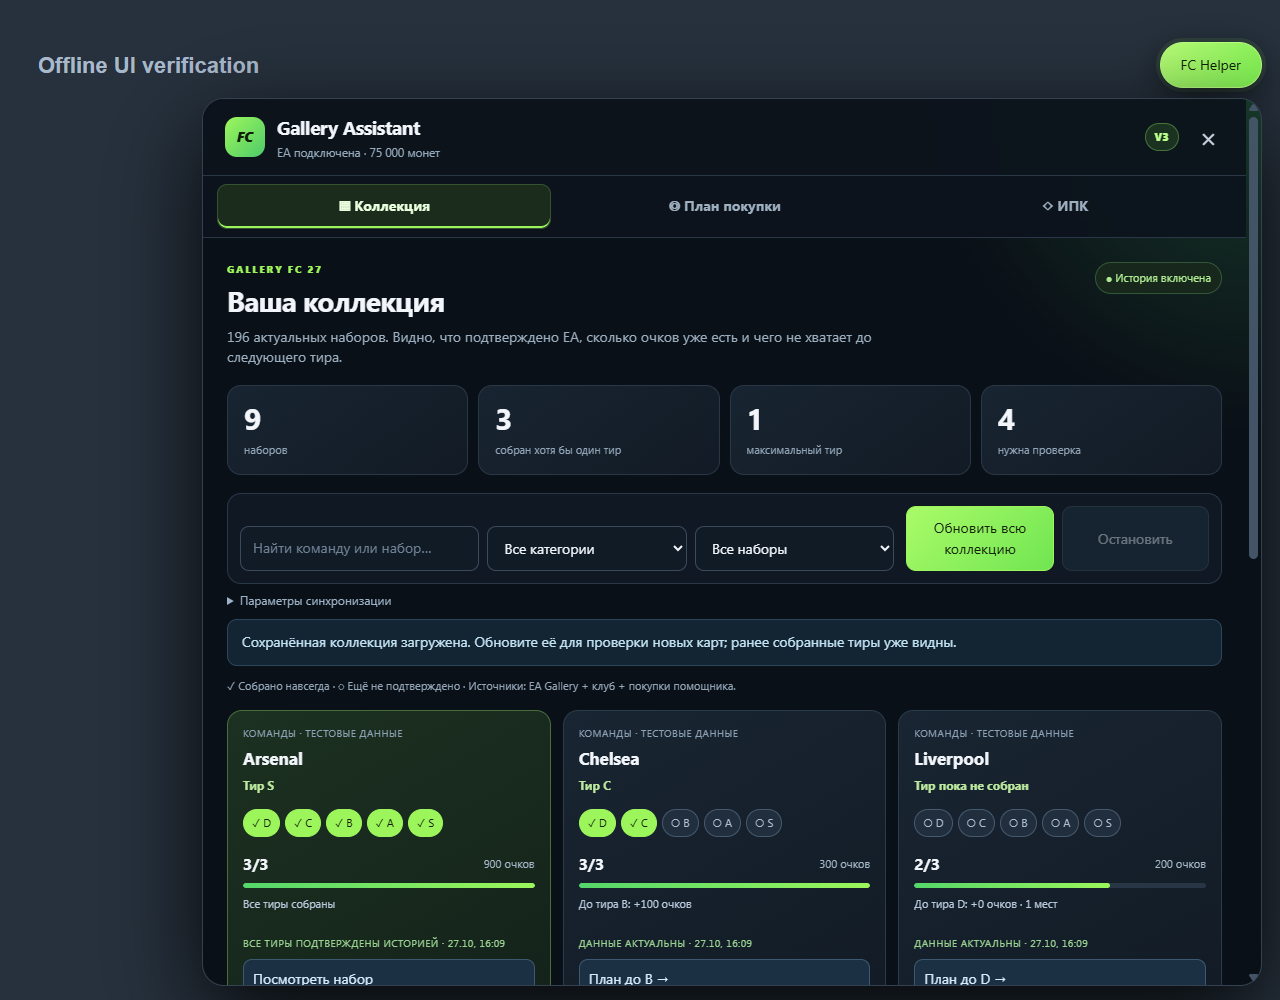
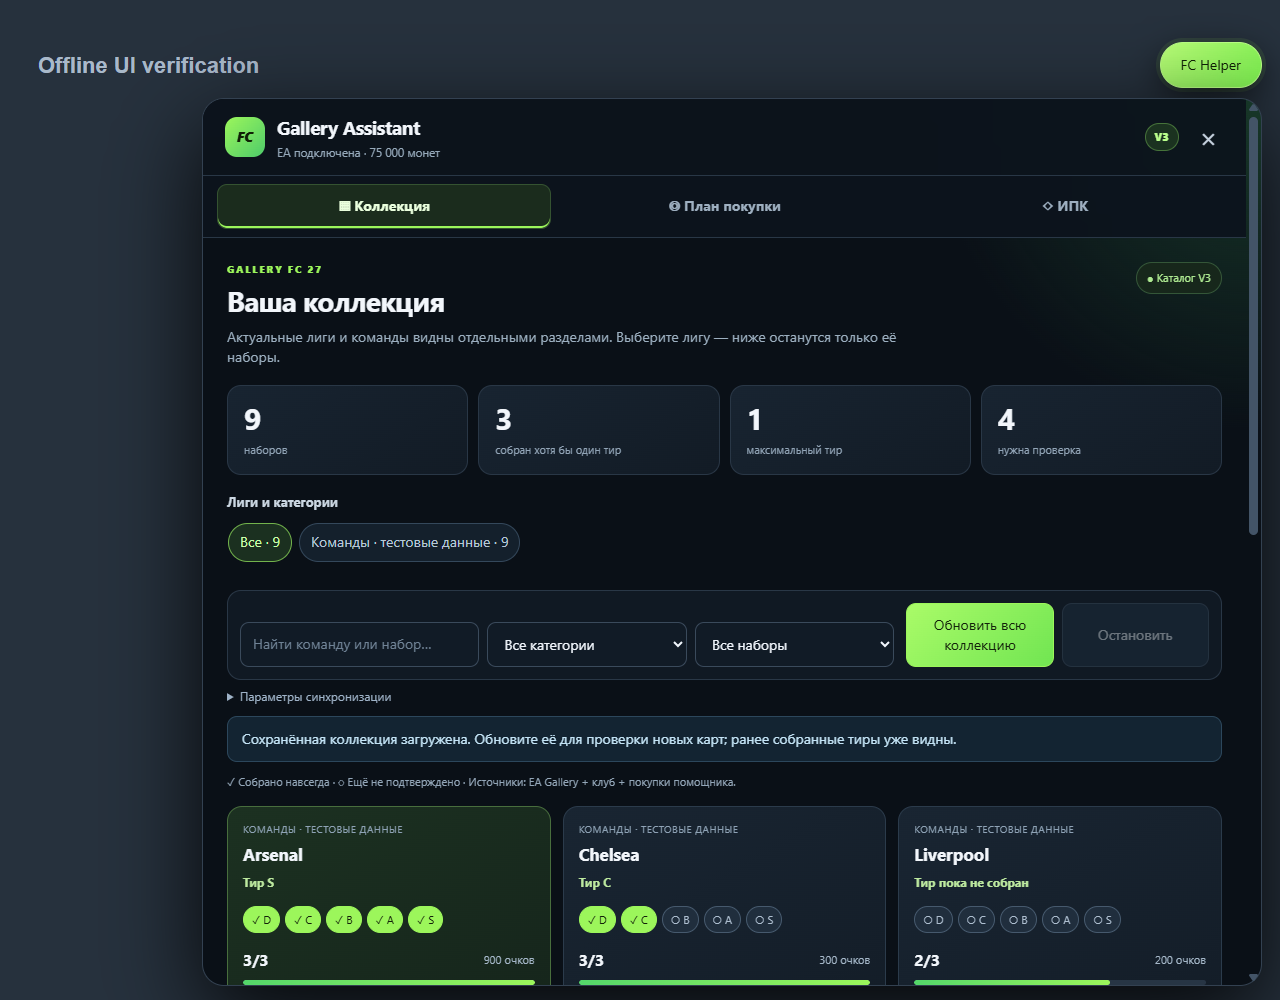
Fix V3 catalog migration and expose new leagues

diff --git a/ea-panel.css b/ea-panel.css
@@ -2,6 +2,7 @@
 #fcgh-toggle{border:1px solid #b9ff84;border-radius:999px;padding:12px 20px;background:linear-gradient(135deg,#baff78,#7aee4e);color:#102006;font-weight:900;box-shadow:0 10px 34px #0009,0 0 0 4px #9cf65b1a}#fcgh-panel{position:absolute;right:0;top:56px;width:min(1060px,calc(100vw - 32px));max-height:calc(100vh - 112px);overflow:auto;border:1px solid #334151;border-radius:22px;background:radial-gradient(circle at 100% 0,#173728 0,transparent 24%),var(--bg);box-shadow:0 30px 90px #000d;scrollbar-color:#435467 transparent}
 .fcgh-head{position:sticky;top:0;z-index:5;display:flex;align-items:center;gap:14px;padding:15px 22px;background:#0c131cef;backdrop-filter:blur(18px);border-bottom:1px solid var(--line)}.fcgh-brand{display:flex;align-items:center;gap:12px;flex:1}.fcgh-logo{display:grid;place-items:center;width:40px;height:40px;border-radius:12px;background:linear-gradient(135deg,var(--green),#4ecb6a);color:#102006;font-weight:950;font-style:italic}.fcgh-head h2{font-size:19px;letter-spacing:-.35px}.fcgh-head small{display:block;margin-top:2px;color:#96a9ba}.fcgh-version{padding:5px 9px;border:1px solid #46733a;border-radius:999px;background:#1b3220;color:#baff8c;font-size:11px;font-weight:900}.fcgh-close{border:0;background:transparent;color:#c7d2df;font-size:28px!important;padding:0 6px}.fcgh-tabs{display:flex;position:sticky;top:71px;z-index:4;background:#0c131cf2;backdrop-filter:blur(18px);padding:8px 14px;border-bottom:1px solid var(--line);gap:6px}.fcgh-tab{flex:1;border:1px solid transparent;border-radius:10px;padding:11px 8px;background:transparent;color:#9eafc0;font-weight:750!important}.fcgh-tab:hover{background:#17222e}.fcgh-tab.active{color:#eaffdd;border-color:#355331;background:#1b2c1d;box-shadow:inset 0 -2px var(--green)}
 .fcgh-body{padding:24px}.fcgh-page-title{display:flex;align-items:flex-start;justify-content:space-between;gap:20px;margin-bottom:18px}.fcgh-page-title h3{font-size:28px;letter-spacing:-.8px}.fcgh-page-title p{margin-top:5px!important;color:#9cafc0;max-width:720px}.fcgh-eyebrow{display:block;margin-bottom:5px;color:var(--green);font-size:10px;font-weight:900;letter-spacing:1.7px}.fcgh-live-badge{white-space:nowrap;padding:7px 10px;border:1px solid #345638;border-radius:999px;background:#17271b;color:#aeea91;font-size:11px}.fcgh-collection-stats{display:grid;grid-template-columns:repeat(4,1fr);gap:10px;margin:16px 0}.fcgh-collection-stats>div{display:flex;flex-direction:column;padding:16px;background:linear-gradient(145deg,#182431,#121b25);border:1px solid var(--line);border-radius:14px}.fcgh-collection-stats b{font-size:30px;line-height:1.1}.fcgh-collection-stats span{font-size:11px;color:#92a5b7;margin-top:7px}.fcgh-toolbar{display:flex;align-items:end;gap:12px;margin:18px 0 8px;padding:12px;border:1px solid var(--line);border-radius:14px;background:#101923}.fcgh-dashboard-filters{display:grid;grid-template-columns:1.2fr 1fr 1fr;gap:8px;flex:1}.fcgh-toolbar>.fcgh-actions{margin:0;min-width:280px}
+.fcgh-section-title{margin:18px 0 9px!important;font-size:13px;color:#cbd7e2}.fcgh-category-strip{display:flex;gap:7px;overflow-x:auto;padding:2px 1px 10px;scrollbar-width:thin}.fcgh-category-strip button{flex:0 0 auto;max-width:240px;border:1px solid #34485b;border-radius:999px;padding:8px 11px;background:#14202c;color:#b8c7d6;font-size:11px;font-weight:700;white-space:nowrap}.fcgh-category-strip button:hover,.fcgh-category-strip button.active{border-color:#72b34c;background:#1b3020;color:#caffab}
 .fcgh-dashboard-filters input,.fcgh-dashboard-filters select,.fcgh-body>label input,.fcgh-form input,.fcgh-form select{width:100%;min-width:0;border:1px solid #3a4a5b;border-radius:9px;background:#111b26;color:#f0f5fb;padding:11px 12px}.fcgh-dashboard-filters input::placeholder{color:#6f8295}.fcgh-form{display:grid;grid-template-columns:repeat(3,minmax(0,1fr));gap:13px}.fcgh-form label,.fcgh-body>label{display:flex;flex-direction:column;gap:6px;color:#a6b8c9;font-size:11px;font-weight:650}.fcgh-config-card{margin:10px 0;padding:16px;border:1px solid var(--line);border-radius:14px;background:linear-gradient(145deg,#141f2a,#101821)}.fcgh-config-card h4{margin-bottom:12px!important;font-size:14px}.fcgh-stepper{display:grid;grid-template-columns:repeat(4,1fr);gap:6px;margin:0 0 16px}.fcgh-stepper span{padding:9px 11px;border:1px solid #293847;border-radius:9px;background:#111b26;color:#9db0c2;font-size:11px;font-weight:750}.fcgh-stepper span:first-child{border-color:#4d743b;color:#c9ffab;background:#1a2b1b}
 .fcgh-actions{display:flex;flex-wrap:wrap;gap:8px;margin:14px 0}.fcgh-actions button{flex:1;border:1px solid #405367;border-radius:10px;padding:11px 12px;background:#203043;color:#edf4fc;font-weight:750}.fcgh-actions button:hover:not(:disabled){filter:brightness(1.12)}.fcgh-actions .fcgh-primary{background:linear-gradient(135deg,#aafb68,#71e552);color:#13220a;border-color:#9cf65b}.fcgh-actions .fcgh-danger{background:linear-gradient(135deg,#ffd46d,#efa93f);color:#2b1d03;border-color:#f6c252}.fcgh-main-actions button{padding:14px}.fcgh-buy-actions{position:sticky;bottom:0;z-index:3;padding:10px;margin:14px -10px -10px;background:#0a1017e8;backdrop-filter:blur(14px);border-top:1px solid var(--line)}#fcgh-root progress{display:block;width:100%;height:8px;border:0;border-radius:6px;accent-color:var(--green);margin:14px 0 10px}.fcgh-sync-status,#fcgh-status,#fcgh-sbc-status{padding:12px 14px;border:1px solid #2c475c;border-radius:10px;background:#132432;color:#c4e4f6;margin:10px 0}.fcgh-price-policy{padding:12px 14px;margin:14px 0;border:1px solid #695831;border-radius:10px;background:#282417;color:#edd89d;font-size:12px}.fcgh-risk{margin:16px 0 0!important;color:#8394a5;font-size:11px}.fcgh-legend{font-size:11px;color:#94a7b9;margin:12px 0 16px!important}
 .fcgh-set-grid{display:grid;grid-template-columns:repeat(3,minmax(0,1fr));gap:12px}.fcgh-set-card{display:flex;flex-direction:column;gap:8px;min-width:0;padding:15px;border:1px solid #2b3b4b;border-radius:15px;background:linear-gradient(150deg,#192532,#121b25);transition:.18s transform,.18s border-color}.fcgh-set-card:hover{transform:translateY(-2px);border-color:#486075}.fcgh-set-card.is-complete{border-color:#486e3d;background:linear-gradient(150deg,#1c3121,#14221a)}.fcgh-set-card>small{font-size:10px;color:#8fa3b6;text-transform:uppercase;letter-spacing:.45px}.fcgh-set-card h4{font-size:17px;line-height:1.25;overflow-wrap:anywhere}.fcgh-current-tier{font-size:12px;color:#bde99f;min-height:20px}.fcgh-tier-badges{display:flex;flex-wrap:wrap;gap:5px;margin:4px 0}.fcgh-tier{padding:5px 8px;border:1px solid #46596d;border-radius:999px;color:#aebfd0;background:#202e3d;font-size:11px!important;white-space:nowrap}.fcgh-tier.complete{background:var(--green);color:#132109;border-color:var(--green);font-weight:850}.fcgh-card-metrics{display:flex;justify-content:space-between;align-items:center;margin-top:3px}.fcgh-card-metrics b{font-size:16px}.fcgh-card-metrics span{font-size:11px;color:#a5b7c8}.fcgh-mini-progress{height:5px;border-radius:9px;overflow:hidden;background:#273544}.fcgh-mini-progress i{display:block;height:100%;background:linear-gradient(90deg,#54d66a,var(--green));border-radius:inherit}.fcgh-next-tier{color:#b9cadd;font-size:11px;min-height:32px}.fcgh-set-card .fcgh-sync-warn{color:#e7c27e}.fcgh-set-card .fcgh-sync-ok{color:#9bd491}.fcgh-open-set{margin-top:auto;width:100%;border:1px solid #3d5870;border-radius:9px;background:#1b3042;color:#d8ecff;padding:9px;text-align:left}.fcgh-open-set:hover{border-color:var(--blue)}

diff --git a/ea-panel.js b/ea-panel.js
@@ -1,6 +1,6 @@
 (() => {
   const CHANNEL = 'fcgh-v1', pending = new Map();
-  const BRIDGE_VERSION = '3.0.0';
+  const BRIDGE_VERSION = '3.0.1';
   let callId = 0, catalog = null, sets = [], currentPlan = null, sbcPlan = null, running = false, persona = 'default';
   const collected = new Set(), galleryVerified = new Set(), gallerySyncAt = new Map(), scores = {}, names = {}, collectedSources = {};
   let operation = false, stopRequested = false, ready = false, dashboardUI = null, canUndoSbc = false;
@@ -207,12 +207,12 @@
     const force = el('input', {type: 'checkbox'});
     const status = el('div', {class: 'fcgh-sync-status', role: 'status', 'aria-live': 'polite', text: 'Загружаем вашу историю…'});
     const progress = el('progress', {max: '100', value: '0', 'aria-label': 'Прогресс синхронизации'}); progress.hidden = true;
-    const stats = el('div', {class: 'fcgh-collection-stats'}), grid = el('div', {class: 'fcgh-set-grid'}), log = el('details', {class: 'fcgh-journal'});
+    const stats = el('div', {class: 'fcgh-collection-stats'}), categories = el('div', {class: 'fcgh-category-strip'}), grid = el('div', {class: 'fcgh-set-grid'}), log = el('details', {class: 'fcgh-journal'});
     log.append(el('summary', {text: 'История покупок и пропусков'}), el('div', {id: 'fcgh-purchase-log'}));
     const help = el('details', {class: 'fcgh-help'}, [el('summary', {text: 'Первый запуск? Как пользоваться'}), el('ol', {}, [el('li', {text: 'Нажмите «Обновить всю коллекцию». Это только проверка: монеты не тратятся. Её можно остановить и продолжить.'}), el('li', {text: 'Зелёные тиры уже собраны. Серые ещё не подтверждены. «Не проверено» не означает, что набор пуст.'}), el('li', {text: 'Нажмите «План до…» у команды. Укажите бюджет, проверьте список покупок и альтернативы.'}), el('li', {text: 'Начните покупку. Лот дороже ориентира более чем на 10% всегда потребует вашего разрешения.'})])]);
     const syncOptions = el('details', {class: 'fcgh-sync-options'}, [el('summary', {text: 'Параметры синхронизации'}), el('label', {class: 'fcgh-force-label'}, [force, ' Полная перепроверка, включая свежие данные']), el('div', {class: 'fcgh-actions'}, [syncCategory])]);
-    body.append(el('div', {class: 'fcgh-page-title'}, [el('div', {}, [el('span', {class: 'fcgh-eyebrow', text: 'GALLERY FC 27'}), el('h3', {text: 'Ваша коллекция'}), el('p', {text: '196 актуальных наборов. Видно, что подтверждено EA, сколько очков уже есть и чего не хватает до следующего тира.'})]), el('span', {class: 'fcgh-live-badge', text: '● История включена'})]), stats, el('div', {class: 'fcgh-toolbar'}, [el('div', {class: 'fcgh-dashboard-filters'}, [search, category, filter]), el('div', {class: 'fcgh-actions'}, [syncAll, stop])]), syncOptions, progress, status, el('p', {class: 'fcgh-legend', text: '✓ Собрано навсегда · ◌ Ещё не подтверждено · Источники: EA Gallery + клуб + покупки помощника.'}), grid, help, log);
-    dashboardUI = {search, category, filter, status, stats, grid, progress, openSet};
+    body.append(el('div', {class: 'fcgh-page-title'}, [el('div', {}, [el('span', {class: 'fcgh-eyebrow', text: 'GALLERY FC 27'}), el('h3', {text: 'Ваша коллекция'}), el('p', {text: 'Актуальные лиги и команды видны отдельными разделами. Выберите лигу — ниже останутся только её наборы.'})]), el('span', {class: 'fcgh-live-badge', text: '● Каталог V3'})]), stats, el('h4', {class: 'fcgh-section-title', text: 'Лиги и категории'}), categories, el('div', {class: 'fcgh-toolbar'}, [el('div', {class: 'fcgh-dashboard-filters'}, [search, category, filter]), el('div', {class: 'fcgh-actions'}, [syncAll, stop])]), syncOptions, progress, status, el('p', {class: 'fcgh-legend', text: '✓ Собрано навсегда · ◌ Ещё не подтверждено · Источники: EA Gallery + клуб + покупки помощника.'}), grid, help, log);
+    dashboardUI = {search, category, filter, status, stats, categories, grid, progress, openSet};
     filter.append(...['D', 'C', 'B', 'A', 'S'].map(letter => el('option', {value: 'tier:' + letter, text: 'Текущий тир ' + letter})));
     search.oninput = renderDashboard; category.onchange = renderDashboard; filter.onchange = renderDashboard;
     syncAll.onclick = () => runOperation(() => syncSets(sets, status, force.checked), 'sync');
@@ -223,6 +223,14 @@
     if (!dashboardUI || !catalog) return;
     const ui = dashboardUI;
     const overview = sets.map(row => ({row, state: GalleryCore.setOverview(row, [...collected], scores, checkedAt)}));
+    const categoryRows = [...new Map(sets.map(row => [row.categoryId, row.categoryName])).entries()].map(([id, name]) => ({id, name, count: sets.filter(row => row.categoryId === id).length}));
+    ui.categories.replaceChildren();
+    const allCategories = el('button', {class: !ui.category.value ? 'active' : '', text: `Все · ${sets.length}`});
+    allCategories.onclick = () => { ui.category.value = ''; renderDashboard(); }; ui.categories.append(allCategories);
+    for (const row of categoryRows) {
+      const button = el('button', {class: ui.category.value === row.id ? 'active' : '', text: `${row.name} · ${row.count}`});
+      button.onclick = () => { ui.category.value = row.id; renderDashboard(); }; ui.categories.append(button);
+    }
     ui.stats.replaceChildren(...[
       [sets.length, 'наборов'], [overview.filter(x => x.state.current).length, 'собран хотя бы один тир'],
       [overview.filter(x => !x.state.next).length, 'максимальный тир'], [overview.filter(x => x.state.stale).length, 'нужна проверка']

diff --git a/background.js b/background.js
@@ -1,6 +1,7 @@
 const GAME = 27;
 const FUTGG_MANIFEST = `https://r2.fut.gg/${GAME}/manifest.json`;
 const OWN_DATA_ROOT = 'https://raw.githubusercontent.com/sergunchik218/FC-Gallery_SBC-Assistant/main';
+const BUILTIN_CATALOG_VERSION = 23;
 const DATA_TTL = 7 * 24 * 60 * 60_000;
 const WEEK_MINUTES = 7 * 24 * 60;
 const FUTBIN_LOAD_TIMEOUT = 60_000;
@@ -42,7 +43,7 @@ async function dataBundle(force = false) {
   if (dataBundleMemo && !force) return dataBundleMemo;
   const stored = await chrome.storage.local.get('fcghDataBundle27');
   const cached = stored.fcghDataBundle27;
-  if (!force && cached?.at && Date.now() - cached.at < DATA_TTL && validCatalog(cached.catalog) && validCards(cached.cards)) return (dataBundleMemo = cached);
+  if (!force && cached?.at && Date.now() - cached.at < DATA_TTL && Number(cached.catalog?.version) >= BUILTIN_CATALOG_VERSION && validCatalog(cached.catalog) && validCards(cached.cards)) return (dataBundleMemo = cached);
   try {
     const [catalog, cards] = await Promise.all([
       json(`${OWN_DATA_ROOT}/gallery-catalog-27.json`),
@@ -53,7 +54,7 @@ async function dataBundle(force = false) {
     await chrome.storage.local.set({fcghDataBundle27: bundle});
     return (dataBundleMemo = bundle);
   } catch (error) {
-    if (validCatalog(cached?.catalog) && validCards(cached?.cards)) return (dataBundleMemo = cached);
+    if (Number(cached?.catalog?.version) >= BUILTIN_CATALOG_VERSION && validCatalog(cached?.catalog) && validCards(cached?.cards)) return (dataBundleMemo = cached);
     return (dataBundleMemo = await localDataBundle());
   }
 }
@@ -67,7 +68,11 @@ async function updateOwnedData() {
   return {source: bundle.source, at: bundle.at || Date.now(), version: bundle.catalog.version ?? null, categories: bundle.catalog.categories.length, sets, cards: bundle.cards.cards.length};
 }
 
-chrome.runtime.onInstalled.addListener(() => {
+chrome.runtime.onInstalled.addListener(async details => {
+  if (details.reason === 'update' || details.reason === 'install') {
+    await chrome.storage.local.remove('fcghDataBundle27');
+    dataBundleMemo = null; catalogMemo = null; cardsMemo = null;
+  }
   chrome.alarms.create('fcgh-weekly-data-update', {delayInMinutes: WEEK_MINUTES, periodInMinutes: WEEK_MINUTES});
 });
 
@@ -249,7 +254,9 @@ chrome.runtime.onMessage.addListener((message, _sender, respond) => {
     if (message?.type === 'fcgh.data.status') {
       const stored = await chrome.storage.local.get('fcghDataBundle27');
       const bundle = stored.fcghDataBundle27;
-      return {ok: true, data: {at: bundle?.at || null, source: bundle?.source || 'built-in', version: bundle?.catalog?.version ?? null}};
+      const sourceBundle = Number(bundle?.catalog?.version) >= BUILTIN_CATALOG_VERSION ? bundle : await localDataBundle();
+      const sets = sourceBundle.catalog.categories.reduce((sum, category) => sum + (category.sets?.length || 0), 0);
+      return {ok: true, data: {at: sourceBundle?.at || null, source: sourceBundle?.source || 'built-in', version: sourceBundle?.catalog?.version ?? null, categories: sourceBundle.catalog.categories.length, sets}};
     }
     if (message?.type === 'fcgh.prices') {
       const book = await priceBook(message.platform || 'ps5', message.force === true);

diff --git a/popup.js b/popup.js
@@ -11,7 +11,7 @@ const date = value => value ? new Date(value).toLocaleString('ru-RU') : 'ещё 
 async function showStatus() {
   try {
     const data = await send({type: 'fcgh.data.status'});
-    status.textContent = `Источник: ${data.source === 'github' ? 'наш GitHub' : 'встроенная копия'}. Последняя проверка: ${date(data.at)}.`;
+    status.textContent = `База v${data.version ?? '?'}: ${data.sets ?? '?'} наборов, ${data.categories ?? '?'} категорий. Источник: ${data.source === 'github' ? 'наш GitHub' : 'встроенная копия'}. Проверка: ${date(data.at)}.`;
   } catch (error) { status.textContent = error.message; }
 }
 

diff --git a/page-bridge.js b/page-bridge.js
@@ -2,7 +2,7 @@
   if (window.__FCGH_PAGE_BRIDGE__) return;
   window.__FCGH_PAGE_BRIDGE__ = true;
   const CHANNEL = 'fcgh-v1';
-  const BRIDGE_VERSION = '3.0.0';
+  const BRIDGE_VERSION = '3.0.1';
   const marks = new Map(), lots = new Map(), items = new Map();
   let sequence = 0, installed = false, lastSbcFill = null;
   const positive = value => Number.isSafeInteger(Number(value)) && Number(value) > 0 ? Number(value) : null;

diff --git a/README.md b/README.md
@@ -2,13 +2,15 @@
 
 Локальное расширение Chrome для **EA SPORTS FC 27 Ultimate Team Web App**. Оно помогает рассчитать закрытие Gallery, показывает карты и цены до покупки, импортирует готовые решения ИПК с FUTBIN и расставляет купленный состав на открытом поле EA.
 
-> Версия: **3.0.0** · Manifest V3 · интерфейс на русском языке
+> Версия: **3.0.1** · Manifest V3 · интерфейс на русском языке
 
 ## V3: понятная коллекция, актуальные наборы и гибкий план
 
 Подробности обновления и устройство проверки: [V3.md](V3.md). История V2 сохранена в [V2.md](V2.md).
 
 - Актуальный каталог: **196 наборов в 10 категориях**, включая MLS, NWSL и ROSHN Saudi League.
+- Лиги больше не спрятаны только в выпадающем списке: на главном экране есть отдельные кнопки всех категорий с числом команд (`MLS · 30`, `NWSL · 16`, `ROSHN Saudi League · 18`).
+- При обновлении с V2 старый кэш 127 наборов удаляется автоматически; V3 не может загрузиться со старым каталогом.
 - Полностью переработанная широкая панель с отдельными экранами коллекции, плана покупки и ИПК.
 - Для каждой команды показаны заполненные места, очки, подтверждённые тиры, следующая цель и свежесть проверки.
 - Уже собранные карты не смешиваются с покупками: план отдельно объясняет, откуда они известны — EA Gallery, клуб, покупка помощником или прежняя локальная история.
